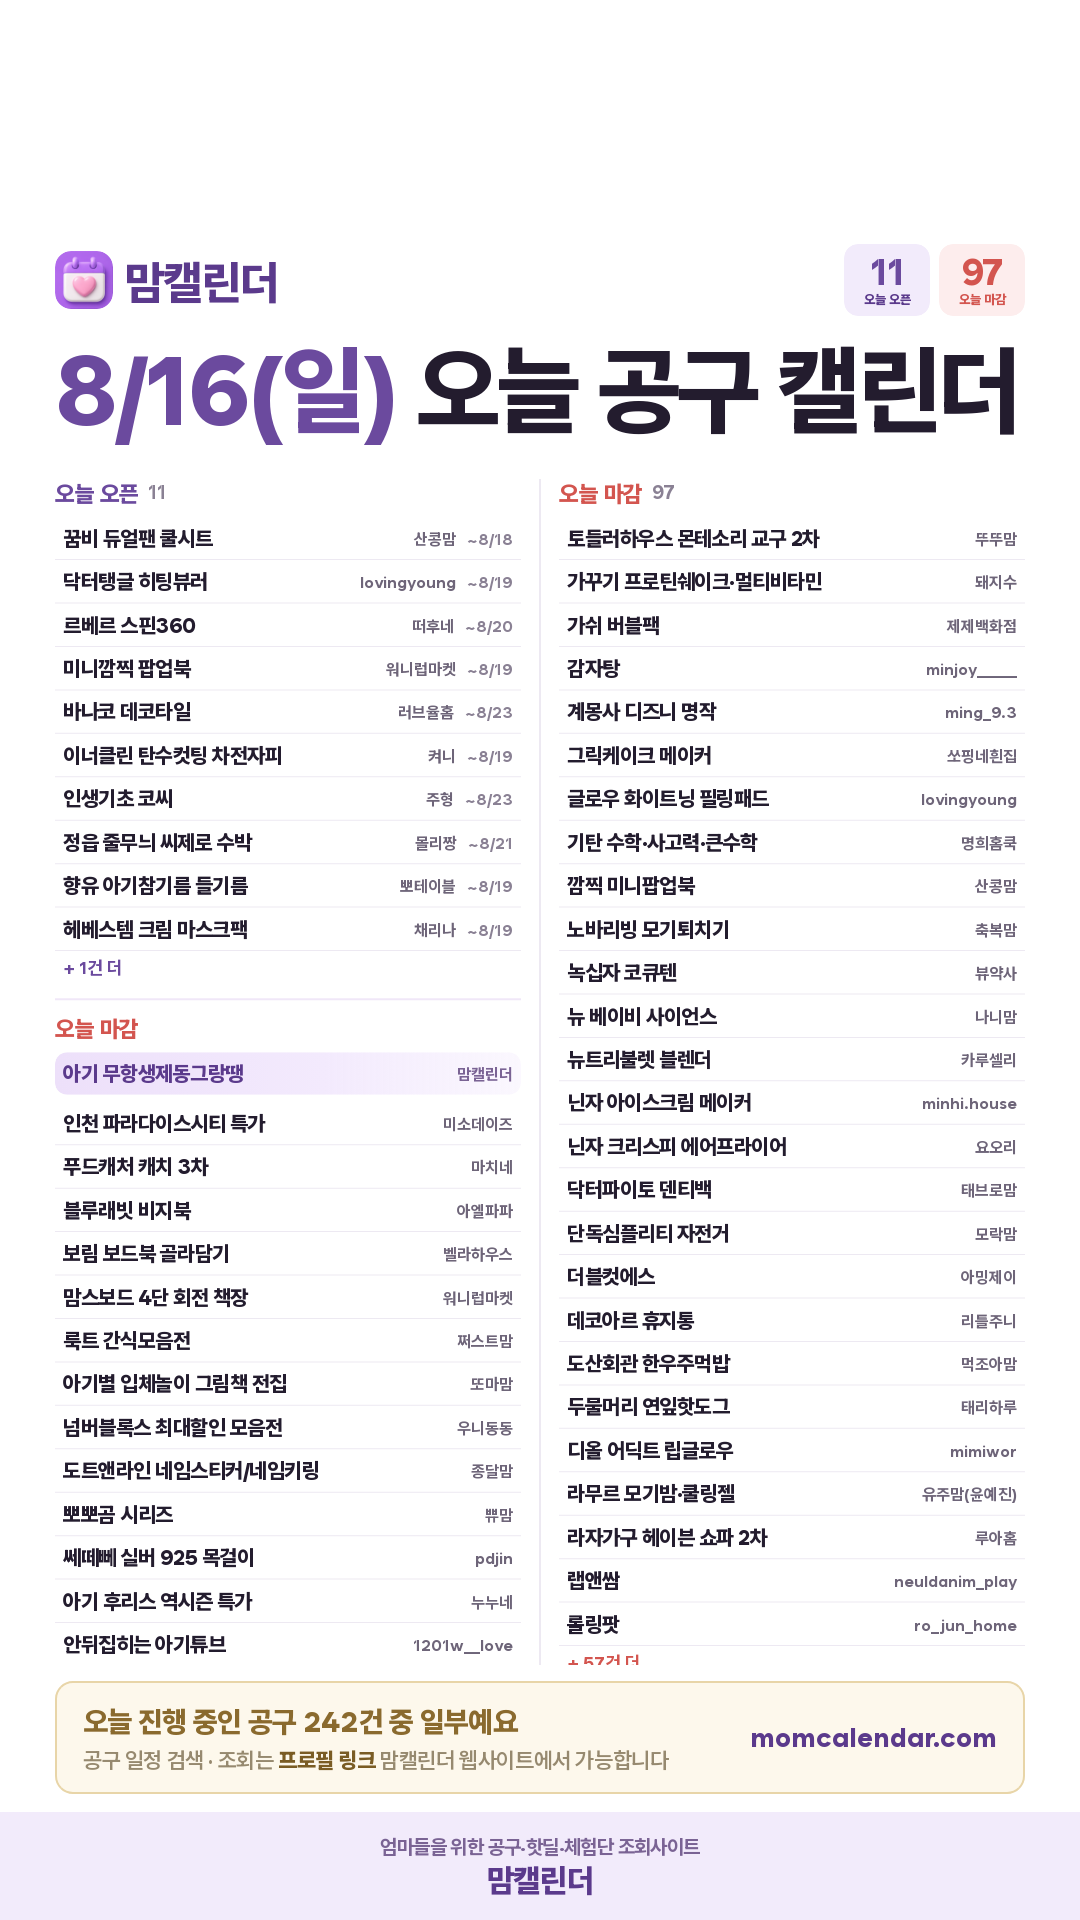
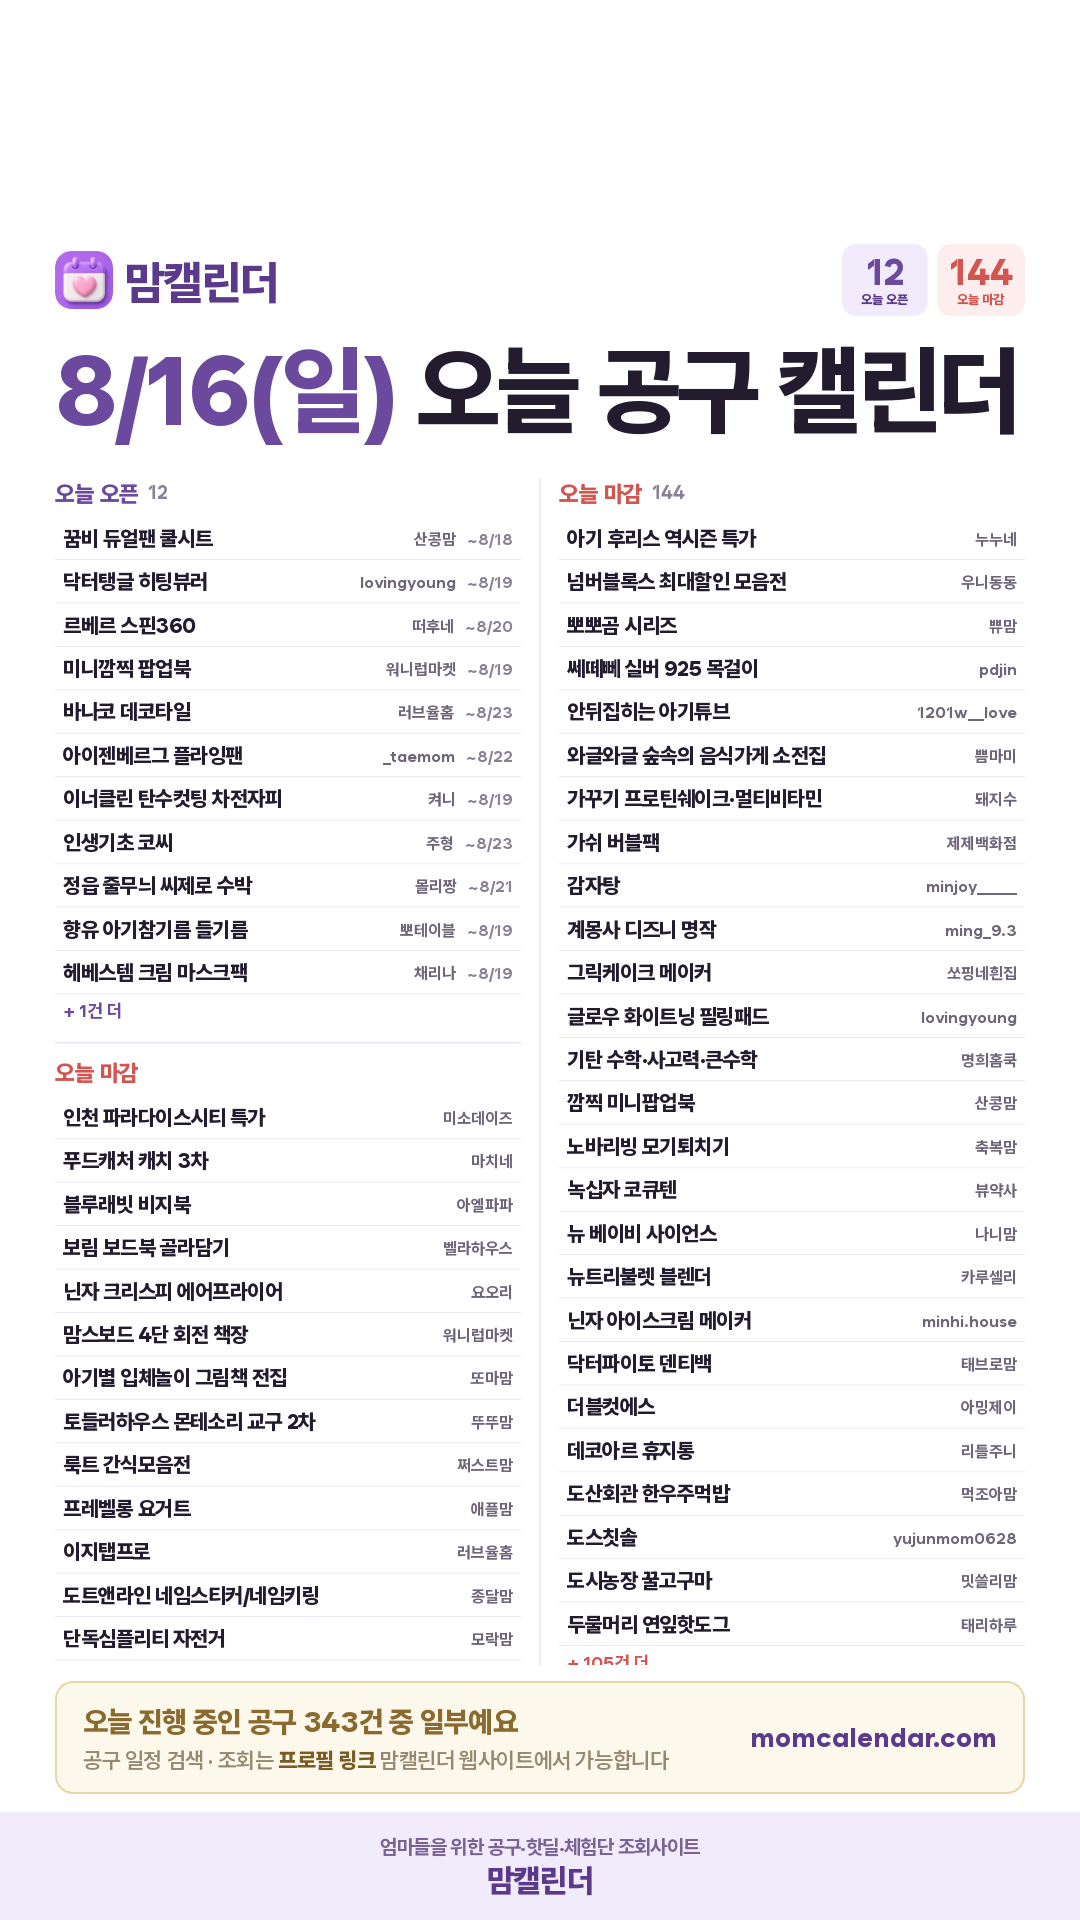
아침 인스타 카드 (2026-08-16)

diff --git a/daily/2026-08-16.html b/daily/2026-08-16.html
@@ -19,7 +19,7 @@ textarea{width:100%;height:260px;border:1px solid #E3DCEF;border-radius:10px;pad
 .todo p{font-size:12.5px;color:#6B6379;line-height:1.75;margin-top:6px}
 .todo a{color:#5B2E8C;font-weight:700}
 </style></head><body>
-<div class="hd"><div class="wrap"><h1>8월 16일(일) 인스타 카드</h1><p>오픈 11건 · 마감 97건</p></div></div>
+<div class="hd"><div class="wrap"><h1>8월 16일(일) 인스타 카드</h1><p>오픈 12건 · 마감 144건</p></div></div>
 <div class="wrap">
   <div class="todo"><b>사장님 확인 부탁드려요 · 링크프라이스 · 오늘의집 제휴 신청 (각 5분)</b><p>핫딜을 우리 수익링크로 바꿀 수 있는 곳을 늘리는 일입니다.<br>
     ① <b>링크프라이스</b> 로그인 → 머천트 검색 → <b>오늘의집·SSG</b> 제휴 신청
@@ -36,7 +36,7 @@ textarea{width:100%;height:260px;border:1px solid #E3DCEF;border-radius:10px;pad
 맘캘린더에서 공유드리는
 8월 16일(일) 오늘 공구 캘린더
 
-오픈 10건 · 마감 86건
+오픈 11건 · 마감 122건
 
 ━━━━━━━━━━━━━━
 
@@ -46,6 +46,7 @@ textarea{width:100%;height:260px;border:1px solid #E3DCEF;border-radius:10px;pad
 · 르베르 스핀360 — 떠후네 (~8/20)
 · 미니깜찍 + 아이깜찍 팝업북 — 워니럽마켓 (~8/19)
 · 바나코 데코타일 — 러브율홈 (~8/23)
+· 아이젠베르그 플라잉팬 — _taemom (~8/22)
 · 이너클린 아랫배쏙 + 탄수컷팅 차전자피 — 켜니 (~8/19)
 · 인생기초 코씨 — 주형 (~8/23)
 · 정읍 줄무늬 씨제로 수박 2차 — 몰리짱 (~8/21)
@@ -53,21 +54,25 @@ textarea{width:100%;height:260px;border:1px solid #E3DCEF;border-radius:10px;pad
 · 헤베스템 고함량 크림 마스크팩 — 채리나 (~8/19)
 
 ⏰ 오늘 마감하는 공구
-· 아기 무항생제동그랑땡 — 맘캘린더 @momcal_
 · 인천 파라다이스시티 특가 — 미소데이즈
 · 푸드캐처 캐치 3차 — 마치네
 · 블루래빗 비지북 — 아엘파파
 · 보림 보드북 골라담기 — 벨라하우스
+· 닌자 크리스피 에어프라이어 — 요오리
 · 맘스보드 러버피노 4단 회전 책장 — 워니럽마켓
-· 룩트 간식모음전 — 쩌스트맘
 · 아기별 입체놀이 그림책 전집 — 또마맘
-· 넘버블록스 최대할인 모음전 — 우니동동
+· 토들러하우스 몬테소리 교구 2차 — 뚜뚜맘
+· 룩트 간식모음전 — 쩌스트맘
+· 프레벨롱 요거트 — 애플맘
+· 이지탭프로 — 러브율홈
 · 도트앤라인 네임스티커/네임키링 — 종달맘
+· 단독심플리티 자전거 — 모락맘
+· 아기 후리스 역시즌 특가 — 누누네
+· 넘버블록스 최대할인 모음전 — 우니동동
 · 뽀뽀곰 시리즈 — 쀼맘
 · 쎄떼뻬 미아방지 실버 925 목걸이 — pdjin
-· 아기 후리스 역시즌 특가 — 누누네
 · 안뒤집히는 아기튜브 — 1201w__love
-· 토들러하우스 몬테소리 교구 2차 — 뚜뚜맘
+· 와글와글 숲속의 음식가게 소전집 — 쁨마미
 · 가꾸기 프로틴쉐이크·멀티비타민 — 돼지수
 · 가쉬 버블팩 — 제제백화점
 · 감자탕 — minjoy_____
@@ -81,44 +86,42 @@ textarea{width:100%;height:260px;border:1px solid #E3DCEF;border-radius:10px;pad
 · 뉴 베이비 사이언스 — 나니맘
 · 뉴트리불렛 블렌더 — 카루셀리
 · 닌자 크리미 아이스크림 메이커 — minhi.house
-· 닌자 크리스피 에어프라이어 — 요오리
 · 닥터파이토 덴티백 — 태브로맘
-· 단독심플리티 자전거 — 모락맘
 · 더블컷에스 — 아밍제이
 · 데코아르 휴지통 — 리틀주니
 · 도산회관 한우주먹밥 — 먹조아맘
+· 도스칫솔 — yujunmom0628
+· 도시농장 꿀고구마 — 밋쓸리맘
 · 두물머리 연잎핫도그 — 태리하루
 · 디올 어딕트 립글로우 — mimiwor
+· 라무르 — 온그리
 · 라무르 모기밤·쿨링젤 — 유주맘(윤예진)
+· 라베스토 책상의자 — 샤인맘
 · 라자가구 헤이븐 쇼파 2차 — 루아홈
 · 랩앤쌈 — neuldanim_play
 · 롤링팟 — ro_jun_home
 · 롤휴지 스툴 — 리브가린
+· 리템 ‘정리대전’ — 로이맘
+· 리틀빈 자석보드 — 지지마마
 · 마카오 스튜디오 시티 자유여행 패키지 — _gonoz
+· 매직쉐프 전동그라인더 2차 — 모아언니
+· 매트매터 모래놀이 — 포포네
 · 멜라토닌 — 드럭해커
 · 모기때치 썸머때치 — 차니맘
 · 모엔츠 임산부팬티수유브라무압박양말 2차 — 다니맘
 · 모제림 4종 여름 기획전 — sani_and_haeng
+· 무선 초퍼 레꼴드 — 뎅쿡
+· 물디홈 떡갈비 — 솔맘
 · 미끄럼하우스 소파미끄럼틀 3차 — needlenina
+· 밀키요 스퀴징 요거트 — 용감이네
 · 바디앤 EMS 괄사 — songyuul
 · 바디탭 — 시크드
+· 바이오가이아 유산균 — 유숲
 · 베베먼트 드라이기 — 유림
-· 봄달 올인원 아기 블랭킷 — 서안맘
-· 분리수거함 — 다다살림
-· 비블리안 프리미엄 헤어케어 — ssun__flow
-· 비피젠 황금똥 유산균 — 풍기댁홈
-· 슈슈아띠 도시락통&amp;보냉백 — 비야
-· 스토피아 식기건조대 — 이안마미
-· 슬리미아 스크럽u&amp;미스트 1차 — 탱이언니
-· 아가드 머리쿵 보호대 — 뚝딱맘
-· 아오라 우주빔 — 소이맘
-· 약셀 어린이 안전칼 도마 — 온이프홈
-· 에바솔로 노르딕키친 조리도구 — 
-· 여성 유산균 + 크랜베리 — liz_yaksa
-· 오이코스 마시멜로우 베개커버 — 헤이홈
-· 오인스제작 빨래바구니·파이엣 건조대 — 오인스
-· 올여름 마지막 승천냉면 — 대장언니
-…나머지 21건은 맘캘린더 사이트에서 보실 수 있어요
+· 베베츄피 — 해피엘
+· 베베코지 와플블럭 — 니니맘
+· 베트남 푸꾸옥 에어텔 — yeoniiique
+…나머지 55건은 맘캘린더 사이트에서 보실 수 있어요
 
 ━━━━━━━━━━━━━━
 
@@ -131,12 +134,12 @@ textarea{width:100%;height:260px;border:1px solid #E3DCEF;border-radius:10px;pad
 ⚠ 공구 일정은 판매자 사정에 따라 변경되거나 조기 마감될 수 있어요. 구매 전에 해당 셀러 계정에서 한 번 더 확인해 주세요.
 
 #맘캘린더 #공구일정 #육아공구 #육아용품 #책육아 #맘스타그램 #공동구매 #육아정보 #공구정보 #육아템 #먹거리공구 #살림템</textarea>
-    <div class="meta">2190자 / 2200자 · 오픈 10/10 · 마감 65/86</div>
+    <div class="meta">2192자 / 2200자 · 오픈 11/11 · 마감 67/122</div>
     <button class="btn btn2" onclick="cp('cap','캡션')">캡션 복사</button>
   </div>
   <div class="card">
     <div class="meta" style="margin:0 0 8px;font-weight:800;color:#5B2E8C">네이버 블로그용 (blog.naver.com/momcal) — 수정해서 쓰셔도 돼요</div>
-    <textarea id="btitle" style="height:54px">8월 16일(일) 오늘 공구일정 모음 | 아토케어·이너클린·르베르·정읍·닥터탱글·인생기초·헤베스템·향유 공구 오픈</textarea>
+    <textarea id="btitle" style="height:54px">8월 16일(일) 오늘 공구일정 모음 | 아이젠베르그·아토케어·이너클린·르베르·정읍·닥터탱글·인생기초·헤베스템 공구 오픈</textarea>
     <button class="btn btn2" onclick="cp('btitle','블로그 제목')">블로그 제목 복사</button>
     <textarea id="bbody" style="margin-top:9px">맘캘린더 채널 한눈에
 · 전체 공구 일정 실시간 검색 → https://momcalendar.com
@@ -149,12 +152,12 @@ textarea{width:100%;height:260px;border:1px solid #E3DCEF;border-radius:10px;pad
 · 카톡 수다방 → https://open.kakao.com/o/gr2kJhCh
 ─────────────
 
-8월 16일(일), 오늘 새로 오픈하는 인스타 공구일정 11건을 카테고리별로 정리했어요.
-오늘 마감되는 공구도 98건 있으니 놓치지 마세요.
+8월 16일(일), 오늘 새로 오픈하는 인스타 공구일정 12건을 카테고리별로 정리했어요.
+오늘 마감되는 공구도 145건 있으니 놓치지 마세요.
 
 (여기에 저장해 두신 카드 사진을 넣어주세요)
 
-■ 오늘 오픈하는 공구 11건
+■ 오늘 오픈하는 공구 12건
 
 [육아]
 · 꿈비 듀얼팬 쿨시트 — 산콩맘 (~8/18 마감)
@@ -176,17 +179,19 @@ textarea{width:100%;height:260px;border:1px solid #E3DCEF;border-radius:10px;pad
 · 헤베스템 고함량 크림 마스크팩 — 채리나 (~8/19 마감)
 
 [가전]
+· 아이젠베르그 플라잉팬 — _taemom (~8/22 마감)
 · 아토케어 침구청소기 — 러브율홈 (~8/20 마감)
 
 [인테리어]
 · 바나코 데코타일 — 러브율홈 (~8/23 마감)
 
-■ 오늘 마감하는 공구 98건
+■ 오늘 마감하는 공구 145건
 · 7가지 무첨가 무항생제 순델리 순수 햄 — 몰리짱
 · AIDA 진정SET(토너+크림+진순이팩) — vita_ddoddo
+· AM 텀블러 new컬러 — 카루셀리
 · AM 텀블러 신규 컬러 — 카루셀리
 · JBJ 청담 세탁바구니 — 이안마미
-· NARS 립&amp;블러쉬 — 우유마켓
+· NEW 미스티파이 스텐 채칼탈수기 — 데이맘테이블
 · WMF미니그릴 — 햇림
 · 가꾸기 프로틴쉐이크·멀티비타민 — 돼지수
 · 가쉬 버블팩 — 제제백화점
@@ -209,81 +214,132 @@ textarea{width:100%;height:260px;border:1px solid #E3DCEF;border-radius:10px;pad
 · 더블컷에스 — 아밍제이
 · 데코아르 휴지통 — 리틀주니
 · 도산회관 한우주먹밥 — 먹조아맘
+· 도스칫솔 — yujunmom0628
+· 도시농장 꿀고구마 — 밋쓸리맘
 · 도트앤라인 네임스티커/네임키링 — 종달맘
 · 두물머리 연잎핫도그 — 태리하루
 · 디올 어딕트 립글로우 — mimiwor
+· 라무르 — 온그리
 · 라무르 모기밤·쿨링젤 — 유주맘(윤예진)
+· 라베스토 책상의자 — 샤인맘
 · 라자가구 헤이븐 쇼파 2차 — 루아홈
 · 랩앤쌈 — neuldanim_play
 · 로지오가닉 쌀과자 — 태리하루
 · 롤링팟 — ro_jun_home
 · 롤휴지 스툴 — 리브가린
 · 룩트 간식모음전 — 쩌스트맘
+· 리템 ‘정리대전’ — 로이맘
+· 리틀빈 자석보드 — 지지마마
 · 마카다프룻 착즙주스 — 명희홈쿡
 · 마카오 스튜디오 시티 자유여행 패키지 — _gonoz
+· 맘스보드 — 꿀빵이네
 · 맘스보드 러버피노 4단 회전 책장 — 워니럽마켓
+· 매직쉐프 전동그라인더 2차 — 모아언니
+· 매트매터 모래놀이 — 포포네
 · 멜라토닌 — 드럭해커
 · 모기때치 썸머때치 — 차니맘
 · 모엔츠 임산부팬티수유브라무압박양말 2차 — 다니맘
 · 모제림 4종 여름 기획전 — sani_and_haeng
+· 몬테소리 원목교구 5종 — 베베랑
+· 무선 초퍼 레꼴드 — 뎅쿡
+· 물디홈 떡갈비 — 솔맘
 · 미끄럼하우스 소파미끄럼틀 3차 — needlenina
+· 밀키요 스퀴징 요거트 — 용감이네
 · 바디앤 EMS 괄사 — songyuul
 · 바디탭 — 시크드
+· 바이오가이아 유산균 — 유숲
 · 베베먼트 드라이기 — 유림
+· 베베먼트 드라이기 — 리미네
+· 베베츄피 — 해피엘
+· 베베코지 와플블럭 — 니니맘
+· 베이비앙 배변팬티 — 츄아맘
+· 베트남 푸꾸옥 에어텔 — yeoniiique
 · 보림 보드북 골라담기 — 벨라하우스
 · 보아르 소독기 — 쀼맘
 · 봄달 올인원 아기 블랭킷 — 서안맘
+· 부기너스 — 양미라
 · 분리수거함 — 다다살림
 · 블루래빗 비지북 — 아엘파파
 · 비블리안 프리미엄 헤어케어 — ssun__flow
+· 비연담 무염국 3종 — 또후니맘
 · 비피젠 황금똥 유산균 — 풍기댁홈
 · 뽀뽀곰 시리즈 — 쀼맘
+· 쁘리엘르 방수패드 — 희아패밀리
+· 수뜰리에 캡슐세제 &amp; 건조기시트 — 러블리아인
+· 순델리 순수햄 — 윤슬라멜맘
 · 슈슈아띠 도시락통&amp;보냉백 — 비야
 · 스토피아 식기건조대 — 이안마미
 · 슬리미아 스크럽u&amp;미스트 1차 — 탱이언니
+· 심플리티 올인원 자전거 — 모락맘
 · 쎄떼뻬 미아방지 실버 925 목걸이 — pdjin
 · 아가드 머리쿵 보호대 — 뚝딱맘
-· 아기 무항생제동그랑땡 — 맘캘린더
+· 아가드 베베콩 머리보호대 &amp; 무릎보호대 — 뚝딱맘
 · 아기 후리스 역시즌 특가 — 누누네
 · 아기별 입체놀이 그림책 전집 — 또마맘
+· 아노에틱 — xhin.world
 · 아오라 우주빔 — 소이맘
+· 아토케어 침구청소기 — 뮤즈마켓
 · 안뒤집히는 아기튜브 — 1201w__love
 · 약셀 어린이 안전칼 도마 — 온이프홈
 · 어반디타입 티셔츠 — 제제백화점
+· 에너지테라피 테라노바 — 윤지쌤
 · 에바솔로 노르딕키친 조리도구 — 
 · 여성 유산균 + 크랜베리 — liz_yaksa
+· 연세 a2 고칼슘우유 — 꿍맘
 · 오베 프리미엄 소창수건&amp;소창행주 — 조이너프
 · 오이코스 마시멜로우 베개커버 — 헤이홈
 · 오인스제작 빨래바구니·파이엣 건조대 — 오인스
 · 올여름 마지막 승천냉면 — 대장언니
 · 옴모크레용 — 미니똘
 · 와글와글 숲속의 음식가게 소전집 — 쁨마미
+· 우잇 소고기칩 — 용복맘
 · 이지앤프리 보관용기 — tocotoco_mom
 · 이지탭프로 — 러브율홈
+· 이치비야 — 묭마미
+· 이키 말띠 바디슈트 &amp; 오가닉 뉴본 — 씽맘
 · 인도네시아 마나도 — 우주맘마
 · 인천 파라다이스시티 특가 — 미소데이즈
+· 일프로 가을신상 — 도치맘
 · 자연지감 명란 — 풍기댁홈
 · 작영 경혈아로마오일 — 원더아나
 · 저스트 글로우 베르베린 리버스 AG — 우리약사
 · 제너렉스 — 최희앤
+· 주니 과즙망 &amp; 이유식용기 — 탱이맘
 · 주니 신제품 할인전 — 온이프홈
+· 주니 안전용품 (도어스토퍼, 모서리보호대 등) — 뽀물맘
+· 주니 안전장치 — 럭키지후
+· 주니 텀블러 4종 — 지후맘
+· 지니어스뉴 — 강윤맘
 · 책읽는곰 튼튼곰 전집 — 이동아
 · 청담보감 — seah_pick
+· 초정담 — yujunmom0628
+· 코덕 정착 베스트 #NARS 립 &amp; 블러쉬 — 우유마켓
 · 코르 F/W 침구류 — 라온살림
 · 코팅큐 — 까사드제리
 · 콰티립 u&amp; 틴트 — 바이요미
 · 큐블로 신상 — 하이맘
+· 키즈LP토토 — 송엘라
+· 타고가요 프리미엄 — 레미맘
+· 타요모음전 — 또후니맘
+· 타투스티커 누태츠 — yoiunni
 · 토들러하우스 몬테소리 교구 2차 — 뚜뚜맘
-· 트루엔 초록이 오메가3💚 — 남약사
+· 트루엔 초록이 오메가3 — 남약사
 · 페이장 — 약빵약사
 · 푸드캐처 캐치 3차 — 마치네
 · 퓨어메르 순수비타민C 기미앰플 — 선선부부하우스
 · 프레벨롱 요거트 — 애플맘
+· 하뚱 병풍 &amp; 자석들 — 디어마더수현
 · 헤모 키즈 에너지 철분 — 모찌맘
+· 휴비딕 콧물흡입기 — 바다맘
+
+■ 오늘의 브랜드: 아이젠베르그
+· 아이젠베르그 공구는 인스타 셀러들이 기간을 정해 여는 공동구매예요. 최근에는 _taemom, servemarket_ 님이 진행했어요.
+· 가격은 오픈일에 셀러 계정 공지로 공개돼요. 같은 제품이라도 셀러·구성에 따라 조금씩 달라서, 공지에서 확인하는 게 가장 정확해요.
+· 이번에 놓쳤다면 너무 아쉬워하지 마세요. 아이젠베르그 공구는 보통 일정 간격을 두고 다시 열려요. 전체 일정은 여기서 → https://momcalendar.com/g/%EC%95%84%EC%9D%B4%EC%A0%A0%EB%B2%A0%EB%A5%B4%EA%B7%B8.html
 
 ※ 공구 일정은 판매자 사정에 따라 변경되거나 조기 마감될 수 있어요. 구매 전에 해당 셀러 계정에서 한 번 더 확인해 주세요.
 
-#공구일정 #인스타공구 #인스타공구일정 #공동구매 #오늘의공구 #육아공구 #공구모음 #아토케어공구 #이너클린공구 #르베르공구 #정읍공구 #닥터탱글공구 #인생기초공구 #헤베스템공구 #향유공구</textarea>
+#공구일정 #인스타공구 #인스타공구일정 #공동구매 #오늘의공구 #육아공구 #공구모음 #아이젠베르그공구 #아토케어공구 #이너클린공구 #르베르공구 #정읍공구 #닥터탱글공구 #인생기초공구 #헤베스템공구</textarea>
     <button class="btn" onclick="cp('bbody','블로그 본문 전체')">블로그 본문 전체 복사 (태그 포함)</button>
     <div class="meta">순서: 사진 저장 → 블로그 앱 글쓰기 → 제목 붙여넣기 → 본문 붙여넣기 → (여기에 카드 사진) 자리에 사진 → 발행. 끝의 #태그들은 자동으로 태그가 돼요</div>
   </div>

diff --git a/daily/index.html b/daily/index.html
@@ -1,1 +1,1 @@
-<!DOCTYPE html><meta charset="UTF-8"><meta http-equiv="refresh" content="0;url=./2026-08-15.html">
+<!DOCTYPE html><meta charset="UTF-8"><meta http-equiv="refresh" content="0;url=./2026-08-16.html">
